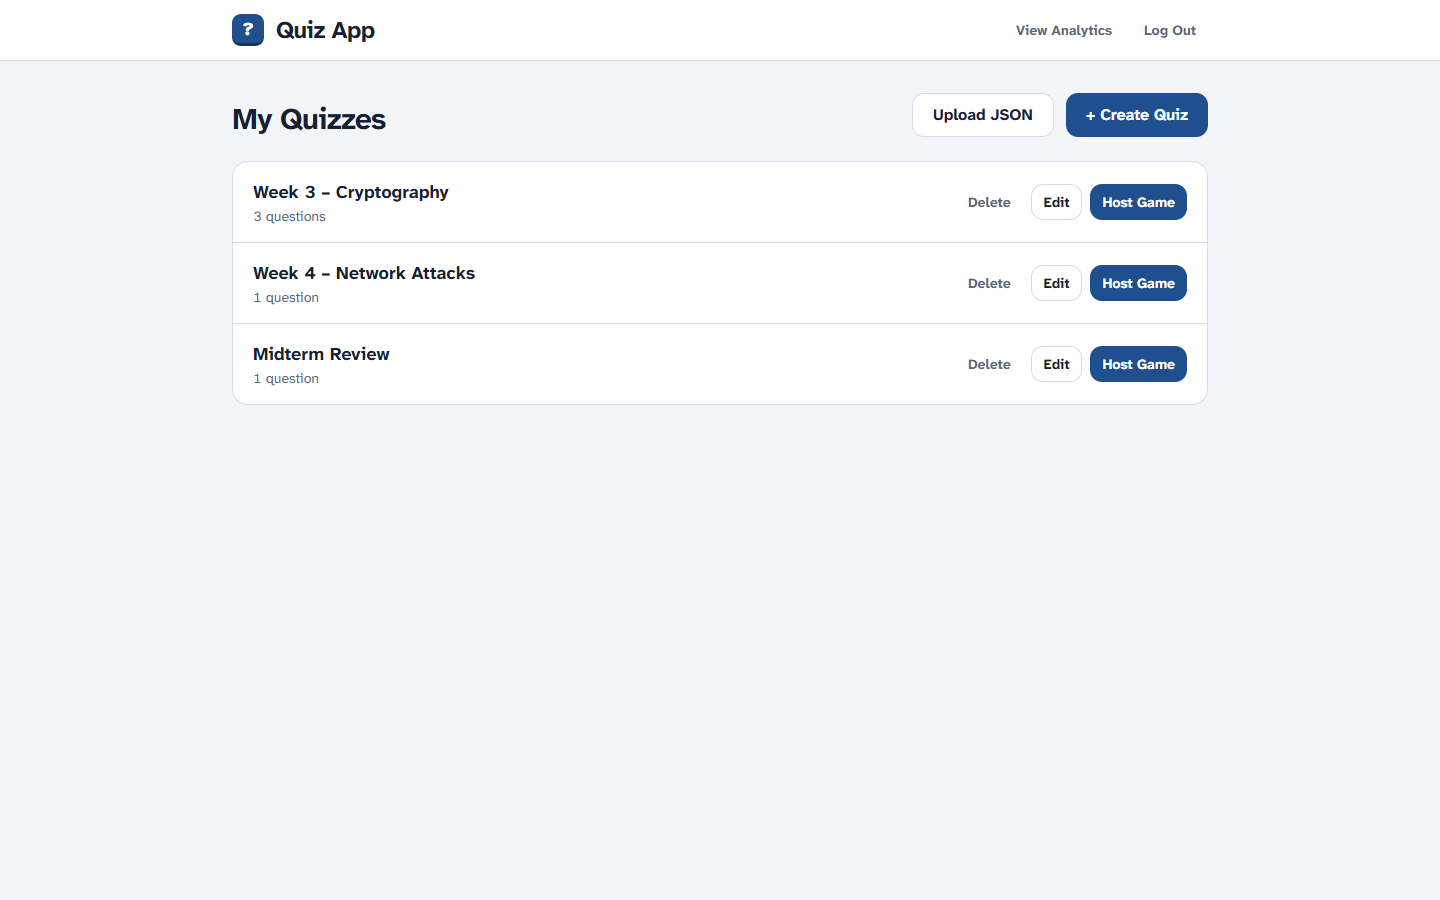
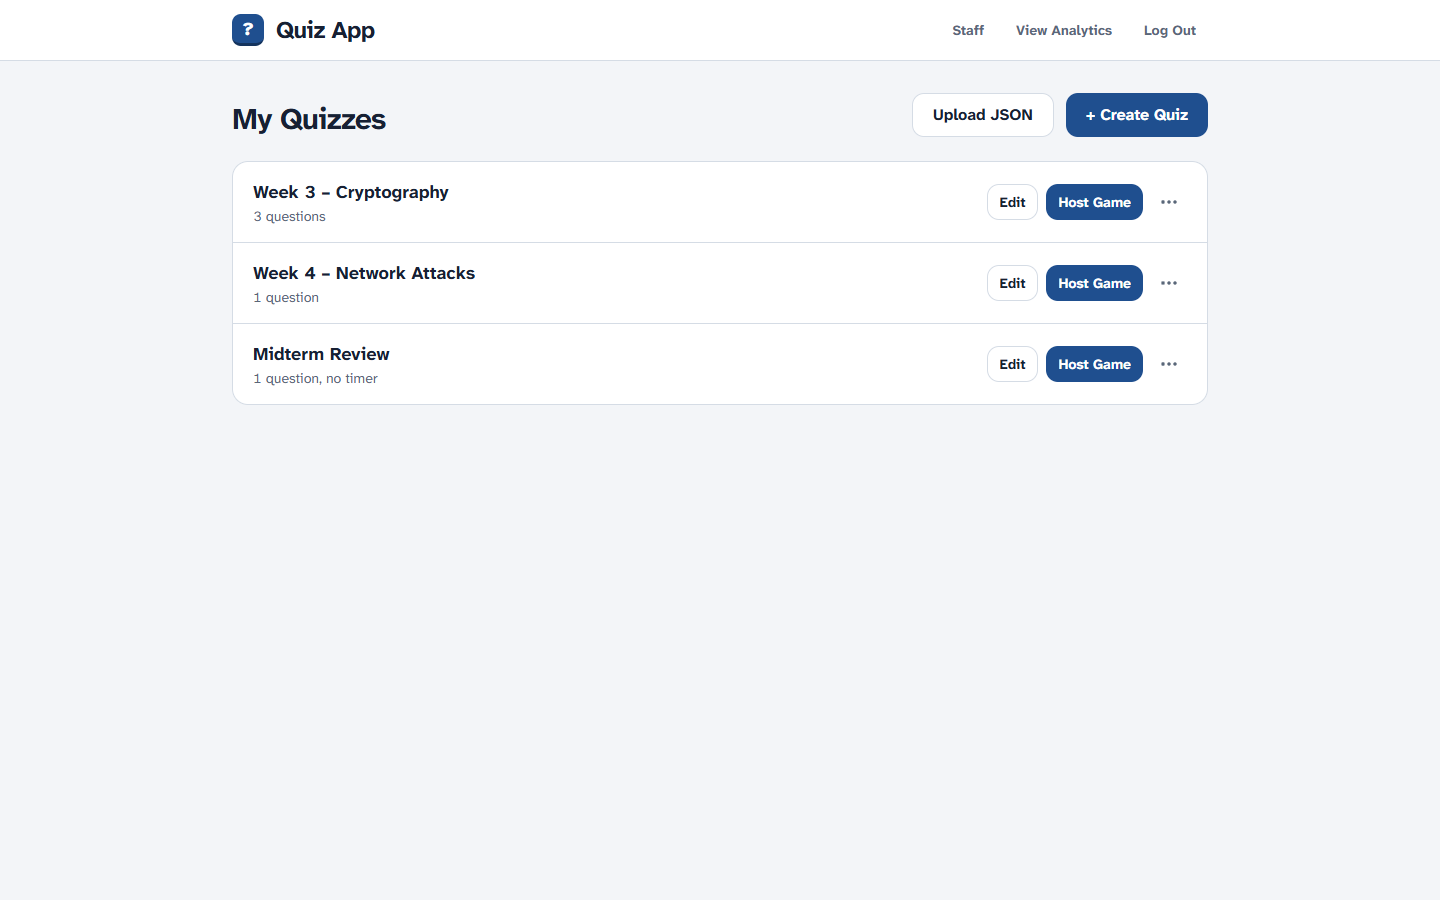
ui: move less-used quiz actions into a menu and group editor settings into one Game settings card

diff --git a/frontend/src/pages/QuizBuilder.jsx b/frontend/src/pages/QuizBuilder.jsx
@@ -28,26 +28,76 @@ const emptyQuestion = () => ({
   image_id: null, image_alt: '',
 });
 
-function ScoringRow({ weight, onChange }) {
+// One choice instead of two switches: "Use a timer" and "Move on from results automatically"
+const PACES = [
+  { id: 'timed', label: 'Timed', text: 'Questions close when time runs out, and the game moves on by itself.' },
+  { id: 'timed-manual', label: 'Timed, I move on', text: 'Questions close when time runs out. Results wait for you to click Next Question.' },
+  { id: 'manual', label: 'I run it', text: 'No timers. You show the results and move on yourself.' },
+];
+
+const paceOf = (useTimer, autoAdvance) => (!useTimer ? 'manual' : autoAdvance ? 'timed' : 'timed-manual');
+
+const presetFor = (weight) => SCORING_PRESETS.find((p) => p.value === weight);
+
+function scoringSummary(weight) {
+  const preset = presetFor(weight);
+  return preset ? `Scoring: ${preset.label.toLowerCase()}` : `Scoring: speed counts ${weight}%`;
+}
+
+// Selectable option styled as a card or a segment; the real radio stays for keyboard and screen readers
+const choiceClass = (selected) =>
+  `cursor-pointer transition-colors has-[:focus-visible]:ring-2 has-[:focus-visible]:ring-brand has-[:focus-visible]:ring-offset-2 ${
+    selected ? 'border-brand bg-brand-soft text-brand' : 'border-line text-muted hover:border-muted hover:text-ink'
+  }`;
+
+function PaceChoice({ pace, onChange }) {
   return (
-    <div className="p-4">
-      <p id="scoring-label" className="font-bold">Scoring</p>
-      <p className="mb-3 text-sm text-muted">{scoringSentence(weight)}</p>
-      <div className="flex flex-wrap items-center gap-2" role="group" aria-labelledby="scoring-label">
-        {SCORING_PRESETS.map((preset) => (
-          <button
-            key={preset.value}
-            type="button"
-            aria-pressed={weight === preset.value}
-            onClick={() => onChange(preset.value)}
-            className={`rounded-chip border px-3 py-1.5 text-sm font-bold transition-colors ${
-              weight === preset.value ? 'border-brand bg-brand-soft text-brand' : 'border-line text-muted hover:border-muted hover:text-ink'
-            }`}
-          >
-            {preset.label}
-          </button>
+    <fieldset className="p-4">
+      <legend className="float-left mb-3 w-full font-bold">Pace</legend>
+      <div className="clear-both grid gap-3 sm:grid-cols-3">
+        {PACES.map((option) => (
+          <label key={option.id} className={`rounded-control border bg-white p-4 ${choiceClass(pace === option.id)}`}>
+            <input type="radio" name="pace" value={option.id} checked={pace === option.id} onChange={() => onChange(option.id)} className="sr-only" />
+            <span className="block font-bold">{option.label}</span>
+            <span className="mt-1 block text-sm text-muted">{option.text}</span>
+          </label>
         ))}
-        <label className="ml-auto flex items-center gap-3 text-sm text-muted">
+      </div>
+      {pace !== 'manual' && (
+        <p className="mt-3 text-sm text-muted">You can still set a single question to &quot;No timer&quot; to run just that one yourself.</p>
+      )}
+    </fieldset>
+  );
+}
+
+function ScoringChoice({ weight, onChange }) {
+  // Custom shows the slider; a saved weight that isn't a preset opens as Custom
+  const [custom, setCustom] = useState(() => !presetFor(weight));
+  const options = [...SCORING_PRESETS, { label: 'Custom', value: null }];
+  const isSelected = (option) => (option.value === null ? custom : !custom && weight === option.value);
+
+  return (
+    <fieldset className="p-4">
+      <legend className="float-left mb-3 w-full font-bold">Scoring</legend>
+      <div className="clear-both flex flex-wrap gap-2">
+        {options.map((option) => (
+          <label key={option.label} className={`rounded-chip border px-3 py-1.5 text-sm font-bold ${choiceClass(isSelected(option))}`}>
+            <input
+              type="radio"
+              name="scoring"
+              checked={isSelected(option)}
+              onChange={() => {
+                setCustom(option.value === null);
+                if (option.value !== null) onChange(option.value);
+              }}
+              className="sr-only"
+            />
+            {option.label}
+          </label>
+        ))}
+      </div>
+      {custom && (
+        <label className="mt-4 flex items-center gap-3 text-sm text-muted motion-safe:animate-rise">
           Speed counts for
           <input
             type="range"
@@ -56,12 +106,13 @@ function ScoringRow({ weight, onChange }) {
             step={10}
             value={weight}
             onChange={(e) => onChange(Number(e.target.value))}
-            className="w-40 accent-[#1F4F8F]"
+            className="w-48 accent-[#1F4F8F]"
           />
           <span className="w-10 text-right font-mono font-bold text-ink">{weight}%</span>
         </label>
-      </div>
-    </div>
+      )}
+      <p className="mt-3 text-sm text-muted">{scoringSentence(weight)}</p>
+    </fieldset>
   );
 }
 
@@ -164,7 +215,16 @@ export default function QuizBuilder() {
   // Finished games of this quiz; they keep their own copy of the questions, so editing is safe
   const [timesPlayed, setTimesPlayed] = useState(0);
 
+  const [settingsOpen, setSettingsOpen] = useState(false);
+  const pace = paceOf(useTimer, autoAdvance);
+
   const navigate = useNavigate();
+
+  const choosePace = (id) => {
+    setUseTimer(id !== 'manual');
+    // With no timer the results always wait for the professor, so "move on" is left as it was
+    if (id !== 'manual') setAutoAdvance(id === 'timed');
+  };
 
   useEffect(() => {
     if (!readToken()) { navigate('/'); return; }
@@ -272,23 +332,35 @@ export default function QuizBuilder() {
           />
         </Field>
 
-        <Panel className="mb-8 divide-y divide-line">
-          <SwitchRow id="use-timer" label="Use a timer" checked={useTimer} onChange={setUseTimer}>
-            {useTimer
-              ? 'Each question closes when its time runs out. Pick "No timer" on a question to run just that one yourself.'
-              : 'No timers in this quiz. Questions stay open until everyone answers or you show the results.'}
-          </SwitchRow>
-          <SwitchRow id="auto-advance" label="Move on from results automatically" checked={autoAdvance} onChange={setAutoAdvance}>
-            {autoAdvance
-              ? 'After a timed question, results show for 5–10 seconds, then the next question starts. Questions with no timer always wait for you.'
-              : 'Results stay up after every question until you click Next Question.'}
-          </SwitchRow>
-          <ScoringRow weight={speedWeight} onChange={setSpeedWeight} />
-          <SwitchRow id="student-review" label="Let students download their review" checked={studentReviewPdf} onChange={setStudentReviewPdf}>
-            {studentReviewPdf
-              ? 'After the game, each student gets a button for a PDF of their answers, the correct answers and explanations. The link works for 7 days.'
-              : "Students who aren't signed in won't get a copy of their answers after the game."}
-          </SwitchRow>
+        <Panel className="mb-8">
+          <div className="flex items-center gap-4 p-4">
+            <div className="min-w-0 flex-grow">
+              <h2 className="font-bold">Game settings</h2>
+              <p className="text-sm text-muted">
+                {PACES.find((p) => p.id === pace).label} · {scoringSummary(speedWeight)} · Student PDFs {studentReviewPdf ? 'on' : 'off'}
+              </p>
+            </div>
+            <Button
+              variant="secondary"
+              size="sm"
+              aria-expanded={settingsOpen}
+              aria-controls={settingsOpen ? 'game-settings' : undefined}
+              onClick={() => setSettingsOpen(!settingsOpen)}
+            >
+              {settingsOpen ? 'Done' : 'Change'}
+            </Button>
+          </div>
+          {settingsOpen && (
+            <div id="game-settings" className="divide-y divide-line border-t border-line motion-safe:animate-rise">
+              <PaceChoice pace={pace} onChange={choosePace} />
+              <ScoringChoice weight={speedWeight} onChange={setSpeedWeight} />
+              <SwitchRow id="student-review" label="Let students download their review" checked={studentReviewPdf} onChange={setStudentReviewPdf}>
+                {studentReviewPdf
+                  ? 'After the game, each student gets a button for a PDF of their answers, the correct answers and explanations. The link works for 7 days.'
+                  : "Students who aren't signed in won't get a copy of their answers after the game."}
+              </SwitchRow>
+            </div>
+          )}
         </Panel>
 
         <ol className="space-y-6">

diff --git a/frontend/src/components/ui.jsx b/frontend/src/components/ui.jsx
@@ -1,4 +1,5 @@
 // Small shared building blocks so every page uses the same buttons, fields and messages
+import { useEffect, useRef, useState } from 'react';
 
 const BUTTON_VARIANTS = {
   primary: 'bg-brand text-white hover:bg-brand-dark',
@@ -59,6 +60,87 @@ export function Alert({ tone = 'error', children, action, onDismiss }) {
 
 export function Panel({ as: Tag = 'section', className = '', ...props }) {
   return <Tag className={`rounded-panel border border-line bg-white ${className}`} {...props} />;
+}
+
+// "⋯" button with a dropdown of less-used actions. items: { label, onSelect, tone: 'danger' } or { divider: true }
+export function Menu({ label, items }) {
+  const [open, setOpen] = useState(false);
+  const rootRef = useRef(null);
+  const triggerRef = useRef(null);
+  const itemRefs = useRef([]);
+
+  useEffect(() => {
+    if (!open) return;
+    itemRefs.current[0]?.focus();
+    const closeOutside = (e) => { if (!rootRef.current?.contains(e.target)) setOpen(false); };
+    document.addEventListener('mousedown', closeOutside);
+    return () => document.removeEventListener('mousedown', closeOutside);
+  }, [open]);
+
+  const choose = (item) => {
+    setOpen(false);
+    triggerRef.current?.focus();
+    item.onSelect();
+  };
+
+  const onKeyDown = (e) => {
+    const list = itemRefs.current.filter(Boolean);
+    const at = list.indexOf(document.activeElement);
+    const go = (i) => { e.preventDefault(); list[(i + list.length) % list.length].focus(); };
+    if (e.key === 'ArrowDown') go(at + 1);
+    else if (e.key === 'ArrowUp') go(at - 1);
+    else if (e.key === 'Home') go(0);
+    else if (e.key === 'End') go(list.length - 1);
+    else if (e.key === 'Escape') { e.preventDefault(); setOpen(false); triggerRef.current?.focus(); }
+    else if (e.key === 'Tab') setOpen(false);
+  };
+
+  let actionIndex = 0;
+  return (
+    <div ref={rootRef} className="relative">
+      <button
+        ref={triggerRef}
+        type="button"
+        aria-label={label}
+        aria-haspopup="menu"
+        aria-expanded={open}
+        onClick={() => setOpen(!open)}
+        className={`inline-flex min-h-9 w-9 items-center justify-center rounded-control text-muted transition-colors hover:bg-ink/5 hover:text-ink ${open ? 'bg-ink/5 text-ink' : ''}`}
+      >
+        <svg aria-hidden="true" viewBox="0 0 20 20" className="h-5 w-5" fill="currentColor">
+          <circle cx="4" cy="10" r="1.7" /><circle cx="10" cy="10" r="1.7" /><circle cx="16" cy="10" r="1.7" />
+        </svg>
+      </button>
+      {open && (
+        <div
+          role="menu"
+          aria-label={label}
+          onKeyDown={onKeyDown}
+          className="absolute right-0 top-full z-20 mt-1 min-w-48 origin-top-right rounded-control border border-line bg-white p-1 shadow-[0_12px_32px_rgba(23,32,51,0.14)] motion-safe:animate-settle"
+        >
+          {items.map((item, i) => {
+            if (item.divider) return <div key={i} role="separator" className="my-1 h-px bg-line" />;
+            const index = actionIndex++;
+            return (
+              <button
+                key={i}
+                ref={(el) => { itemRefs.current[index] = el; }}
+                type="button"
+                role="menuitem"
+                tabIndex={-1}
+                onClick={() => choose(item)}
+                className={`flex w-full items-center rounded-chip px-3 py-2 text-left text-sm font-bold transition-colors ${
+                  item.tone === 'danger' ? 'text-bad hover:bg-bad-soft focus:bg-bad-soft' : 'text-ink hover:bg-ink/5 focus:bg-ink/5'
+                }`}
+              >
+                {item.label}
+              </button>
+            );
+          })}
+        </div>
+      )}
+    </div>
+  );
 }
 
 // Same PIN field on the guest form and the student dashboard

diff --git a/frontend/src/pages/HostDashboard.jsx b/frontend/src/pages/HostDashboard.jsx
@@ -1,7 +1,7 @@
 import { useState, useEffect, useRef } from 'react';
 import { useNavigate } from 'react-router-dom';
 import { WS_URL, apiDownload, apiFetch, clearToken, getToken, readToken } from '../api';
-import { Alert, Button, Panel, Wordmark } from '../components/ui';
+import { Alert, Button, Menu, Panel, Wordmark } from '../components/ui';
 import Stage from '../components/host/Stage';
 import Lobby from '../components/host/Lobby';
 import QuestionStage from '../components/host/QuestionStage';
@@ -276,12 +276,18 @@ export default function HostDashboard() {
                   <h2 className="truncate text-lg font-bold">{quiz.title}</h2>
                   <p className="text-sm text-muted">{quiz.questions.length} {quiz.questions.length === 1 ? 'question' : 'questions'}{quiz.use_timer === false && ', no timer'}{quiz.times_played > 0 && `, played ${quiz.times_played} ${quiz.times_played === 1 ? 'time' : 'times'}`}</p>
                 </div>
-                <div className="flex gap-2">
-                  <Button variant="ghost" size="sm" onClick={() => deleteQuiz(quiz)} className="hover:!bg-bad-soft hover:!text-bad">Delete</Button>
-                  <Button variant="ghost" size="sm" onClick={() => duplicateQuiz(quiz)}>Duplicate</Button>
-                  <Button variant="ghost" size="sm" onClick={() => downloadSolutions(quiz)}>Solutions PDF</Button>
+                <div className="flex items-center gap-2">
                   <Button variant="secondary" size="sm" onClick={() => navigate(`/create/${quiz.id}`)}>Edit</Button>
                   <Button size="sm" onClick={() => hostGame(quiz.id)}>Host Game</Button>
+                  <Menu
+                    label={`More actions for ${quiz.title}`}
+                    items={[
+                      { label: 'Duplicate', onSelect: () => duplicateQuiz(quiz) },
+                      { label: 'Solutions PDF', onSelect: () => downloadSolutions(quiz) },
+                      { divider: true },
+                      { label: 'Delete…', tone: 'danger', onSelect: () => deleteQuiz(quiz) },
+                    ]}
+                  />
                 </div>
               </li>
             ))}

diff --git a/README.md b/README.md
@@ -76,22 +76,29 @@ VITE_GOOGLE_CLIENT_ID=your-client-id.apps.googleusercontent.com
    To give other professors or TAs access, open **Staff** in the top bar, type their `@csumb.edu` email and click **Add**. They don't need an account yet. They can host as soon as they sign up, or straight away if they already have an account. **Remove** takes access away again; their quizzes are kept.
 2. **Add a quiz.** Click **+ Create Quiz** to build one, or **Upload JSON** to import a file (format below).
 
-   You can **Edit**, **Duplicate** or **Delete** any quiz at any time, including ones you've already played:
+   Each quiz in My Quizzes has **Edit** and **Host Game**. The rest are in its **⋯** menu. All of them work on quizzes you've already played:
    - **Edit:** changes apply to future games. Past results in Analytics and in students' reviews keep the questions exactly as they were played.
    - **Duplicate:** makes "Copy of …" with the same questions, images and settings.
-   - **Delete:** removes the quiz from My Quizzes. Its past games stay in Analytics.
    - **Solutions PDF:** an answer key with every question, its four options with the correct one marked, and the explanation. Handy to share after class.
+   - **Delete…:** removes the quiz from My Quizzes, after you confirm. Its past games stay in Analytics.
+
+   The quiz editor's settings sit in one **Game settings** card under the title. It shows a one-line summary (for example "Timed · Scoring: balanced · Student PDFs off"); click **Change** to open it.
 3. **Host it.** Click **Host Game**. The projector view shows the room PIN.
 4. **Join as students.** Open `http://localhost:5173` in other tabs, enter the PIN and a nickname under **Play as guest**. Students with a `@csumb.edu` account can sign in instead, which saves their results for review.
 5. **Start.** Click **Start Game**. Each question closes when the timer runs out or everyone has answered. The projector then shows the answer spread, the explanation and the top 3.
 
-   **Running it yourself:** in the quiz editor, turn off **Use a timer** for the whole quiz, or set a question's time limit to **No timer**. Those questions stay open until everyone has answered or you click **Show Results**. Their results then wait for you to click **Next Question**. To control the pace after every question, turn off **Move on from results automatically** as well.
+   **Running it yourself:** under **Game settings → Pace**, pick one of:
+   - **Timed** (the default): questions close when time runs out, and the game moves on by itself.
+   - **Timed, I move on:** questions are still timed, but the results after each one wait for you to click **Next Question**.
+   - **I run it:** no timers. Questions stay open until everyone has answered or you click **Show Results**, and their results wait for **Next Question**.
+
+   In a timed quiz you can also set a single question's time limit to **No timer** to run just that one yourself.
 
    **Scoring:** a correct answer is worth up to 1000 points. Under **Scoring** in the quiz editor, choose how much of that depends on speed:
    - **Correct answers only** (0%): every correct answer earns 1000, however long it took.
    - **Balanced** (50%, the default): 500 for being correct plus up to 500 for speed.
    - **Speed matters** (75%).
-   - Or any value on the slider, in 10% steps.
+   - **Custom:** shows a slider for any value, in 10% steps.
 
    Wrong answers always score 0.
 
@@ -106,7 +113,7 @@ VITE_GOOGLE_CLIENT_ID=your-client-id.apps.googleusercontent.com
    - **Download grades (CSV):** name, email (for signed-in students), score, correct answers and accuracy, ready for a gradebook import. Nicknames that look like spreadsheet formulas are neutralised.
    - **PDF** next to a student in the roster: that student's review (their answers, the correct answers and explanations), e.g. to email to someone who played as a guest. It works whether or not student reviews were turned on, and doesn't expire.
 
-   **Review PDFs for students:** turn on **Let students download their review** in the quiz editor (off by default). At the end of the game, each student's screen then shows **Download my review (PDF)**. The PDF has their answers, the correct answers and the explanations, and works for guests too. Each link is unique to that student and stops working after 7 days.
+   **Review PDFs for students:** turn on **Let students download their review** under **Game settings** in the quiz editor (off by default). At the end of the game, each student's screen then shows **Download my review (PDF)**. The PDF has their answers, the correct answers and the explanations, and works for guests too. Each link is unique to that student and stops working after 7 days.
 
 | Start page | My Quizzes | Quiz builder |
 | --- | --- | --- |

diff --git a/docs/HOW-IT-WORKS.md b/docs/HOW-IT-WORKS.md
@@ -103,7 +103,7 @@ The results screen is laid out like a question in Analytics:
 - **Left:** the accuracy, a bar per answer with its count and share, and a "No answer" row.
 - **Right:** the explanation and the top 5.
 
-After a timed question, the next question starts after a few seconds (10 when there's an explanation, otherwise 5). The professor can also click **Skip Delay** or **End Game Early**. After a question with no timer, or in a quiz with **Move on from results automatically** turned off, the results stay up until the professor clicks **Next Question**.
+After a timed question, the next question starts after a few seconds (10 when there's an explanation, otherwise 5). The professor can also click **Skip Delay** or **End Game Early**. After a question with no timer, or in a quiz with the pace set to **Timed, I move on**, the results stay up until the professor clicks **Next Question**.
 
 ### 4. Game over
 
@@ -180,9 +180,8 @@ Two quiz settings and one question setting decide how a game moves along. All ar
 
 | Setting | Where | Effect |
 | --- | --- | --- |
-| **Use a timer** (`Quiz.use_timer`) | Quiz | Off: no question in the quiz has a countdown |
+| **Pace** (`Quiz.use_timer`, `Quiz.auto_advance_results`) | Quiz | **Timed** = timer on, results move on by themselves. **Timed, I move on** = timer on, `auto_advance_results` off, so the results screen after every question waits for the professor. **I run it** = `use_timer` off, so no question has a countdown. |
 | **Time limit** (`Question.time_limit_seconds`) | Question | 5–120 seconds, or **No timer** (`null`) |
-| **Move on from results automatically** (`Quiz.auto_advance_results`) | Quiz | Off: the results screen after every question waits for the professor |
 
 A question runs **without a timer** when the quiz's timer is off or the question is set to "No timer". For such a question:
 
